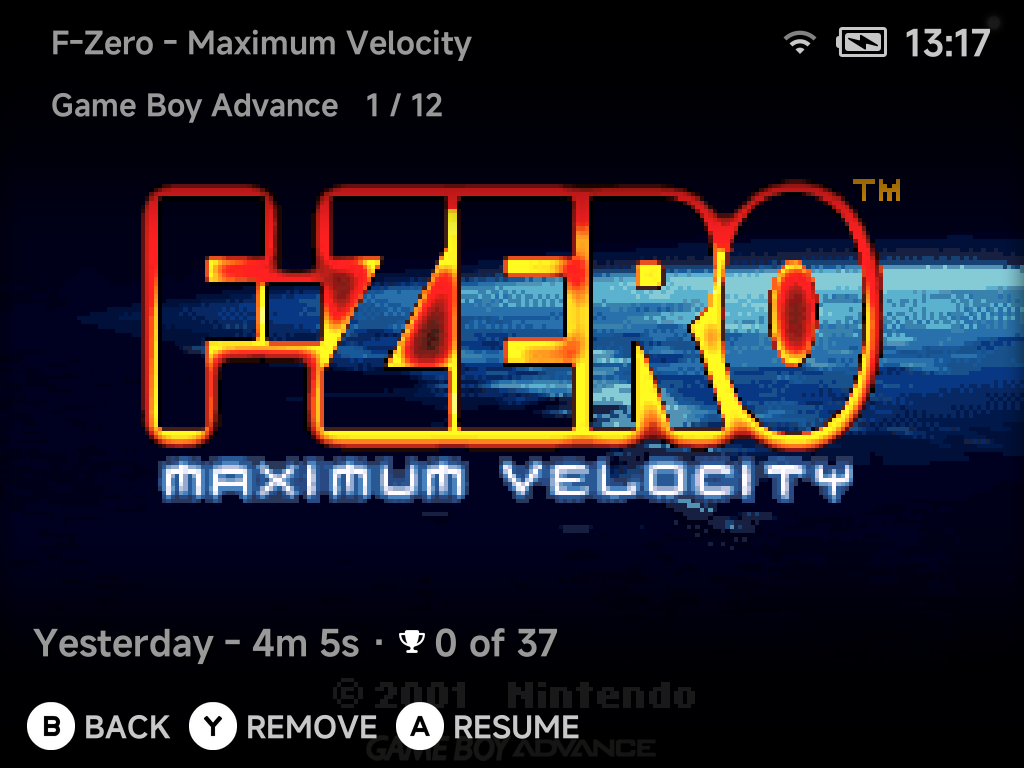
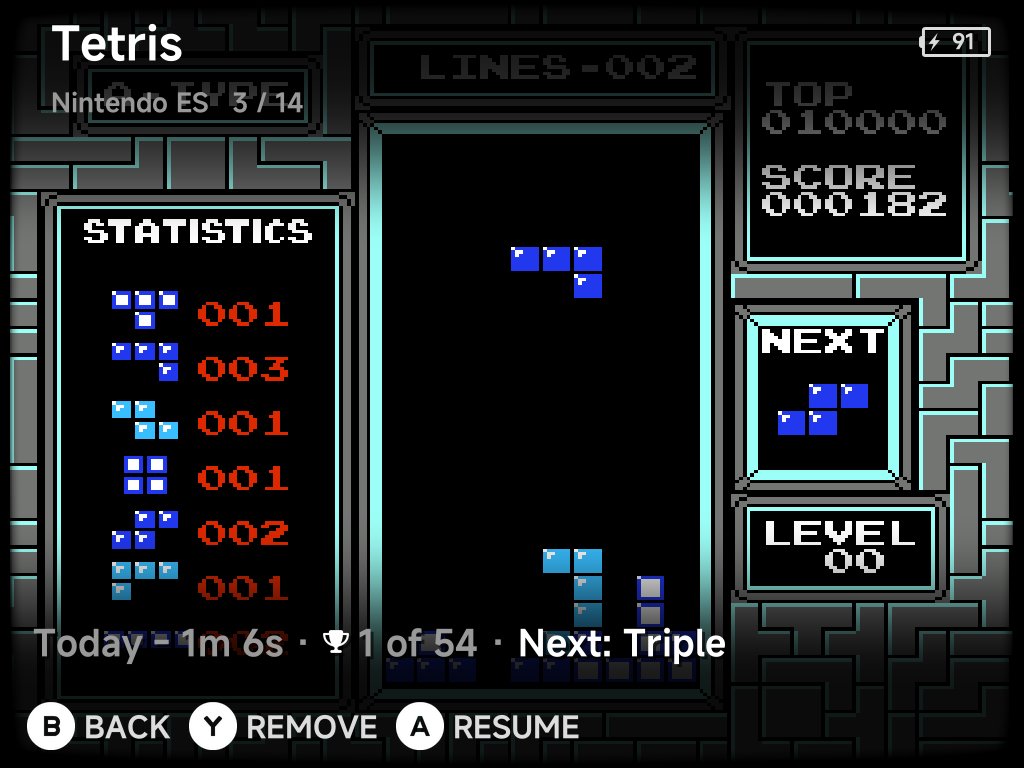
docs(handheld): Game Switcher layout option, Full screen and List with screenshots (#8)

diff --git a/docs/assets/landing/mobile/menu-demo.html b/docs/assets/landing/mobile/menu-demo.html
@@ -341,10 +341,13 @@ header.top p { margin: 0; color: var(--dim); font-size: 15px; max-width: 64ch; l
 .swtopfade { position: absolute; left: 0; right: 0; top: 0; height: 119px; pointer-events: none; }   /* subtitle bottom ≈ 55 + 64 */
 .swbotfade { position: absolute; left: 0; right: 0; bottom: var(--hb); height: 88px; pointer-events: none; }  /* info text top at 68 above the screen bottom: 24 + 64 */
 .swtop { position: absolute; left: 24px; right: 24px; top: 12px; display: grid; gap: 2px; }
-.swtop .t { font-size: 20px; line-height: 25px; white-space: nowrap; overflow: hidden; text-overflow: ellipsis; }
-.swtop .n { font-size: 13px; line-height: 16px; color: var(--dim); white-space: pre; }
+.swtop .t { font-size: 22px; line-height: 28px; white-space: nowrap; overflow: hidden; text-overflow: ellipsis; }
+.swtop .n { font-size: 11px; line-height: 14px; color: var(--dim); white-space: pre; }
 .swinfo { position: absolute; left: 24px; right: 24px; bottom: calc(var(--hb) + 6px); }
-.swinfo .il { font-size: 14px; line-height: 18px; }
+.swinfo .il { font-size: 14px; line-height: 18px; white-space: nowrap; overflow: hidden; text-overflow: ellipsis; }
+#screen.nohints .swinfo { display: none; }
+#screen.nohints .swbotfade { bottom: 44px; }   /* Button hints: Hide keeps the bar's 90% row for the info line; the fade rises from it */
+.hints.sw90 .binfo { margin-left: 0; }   /* the switcher's info line in the bar's row: left, where it sat above it */
 .portrait .swtop, .portrait .swinfo { left: 16px; right: 16px; }
 /* the Game Switcher's title keeps clear of it, as NX Redux's menu bar title (the group's ~48 dp plus 2 × PADDING 10 at 22 / 16) */
 .swtop { right: calc(24px + 48px + 27.5px); } .portrait .swtop { right: calc(16px + 48px + 27.5px); }
@@ -524,6 +527,7 @@ body { margin: 0; padding: 0 0 4px; }
           <span class="lbl">Screen</span>
           <button id="scr-main" aria-pressed="true">Main menu</button>
           <button id="scr-games" aria-pressed="false">Game list (Mega Drive)</button>
+          <button id="scr-sw" aria-pressed="false">Game Switcher</button>
         </div>
         <div class="switch" role="group" aria-label="Orientation">
           <span class="lbl">Orientation</span>
@@ -539,7 +543,7 @@ body { margin: 0; padding: 0 0 4px; }
       </div>
       <div class="opt-panel" data-p="layouts">
         <div class="layouts" id="layouts" role="group" aria-label="Layouts"></div>
-        <span class="hd">Home: List puts Continue, the pinned games and the pinned tools in one list; Grid is the dashboard (Continue beside the tools, pinned games in rows); Carousel opens on Continue with the pinned games after it and the tools in a dock below</span>
+        <span class="hd">Home: List puts Continue, the pinned games and the pinned tools in one list; Grid is the dashboard (Continue beside the tools, pinned games in rows); Carousel opens on Continue with the pinned games after it and the tools in a dock below. Game Switcher (SELECT): Full screen shows one resume frame at a time; List shows Recent as a list over the selected game's resume frame</span>
       </div>
       <div class="opt-panel" data-p="home">
         <div class="switch" role="group" aria-label="Home state">
@@ -744,9 +748,8 @@ const scaleK = () => fit.clientWidth / DIM[S.orient].w;
 
 /* ---------- the info line (ui/GameInfo.kt): "Today - 1m 31s · [trophy] 0 of 35 · Next: …" ---------- */
 const dur = h => { const s = Math.round(+h * 3600), H = Math.floor(s / 3600), M = Math.floor(s % 3600 / 60); return H ? `${H}h ${M}m` : `${M}m ${s % 60}s`; };
-/* Style > Extra info: Hide drops these segments on Home and in game lists (every info line and caption row built from them);
-   the Game Switcher keeps them */
-const infoOn = () => S.switcher || (S.info !== false && !(S.inConsole && sty() === "list" && S.hints !== false));   /* a game list on List shows them only with Button hints: Hide (its band line sits on the bar) */
+/* Style > Extra info: Hide drops these segments on Home, in game lists and in the Game Switcher (every info line and caption row built from them) */
+const infoOn = () => S.info !== false && !(S.switcher ? S.swLay === "list" && S.hints !== false : S.inConsole && sty() === "list" && S.hints !== false);   /* 2026-10-12: the Game Switcher follows Extra info too; its List as a game list's List */   /* a game list on List shows them only with Button hints: Hide (its band line sits on the bar) */
 const timeSeg = it => !infoOn() ? "" : [it.last, it.h ? dur(it.h) : ""].filter(Boolean).join(" - ");   /* ASCII hyphen inside the time segment */
 const achSeg = it => !infoOn() ? "" : it.ra ? `<i class="rai"></i>${it.ra[0]} of ${it.ra[1]}` : "";
 const nextSeg = it => !infoOn() ? "" : it.ra && it.ra[2] ? `<span class="next">Next: ${it.ra[2]}</span>` : "";
@@ -1146,8 +1149,11 @@ function press(k, repeat = false) {
   S.settleTo = null;
   if (k === "SELECT" && !S.inConsole) { S.tabFocus = false; S.switcher = !S.switcher; if (S.switcher) S.sw = 0; build(); return update(); }
   if (S.switcher) {
-    if (k === "left" && S.sw > 0) S.sw--;
-    if (k === "right" && S.sw < recent().length - 1) S.sw++;
+    const n = recent().length, list = S.swLay === "list";
+    if (list && n && k === "up") S.sw = (S.sw + n - 1) % n;
+    if (list && n && k === "down") S.sw = (S.sw + 1) % n;
+    if (!list && k === "left" && S.sw > 0) S.sw--;
+    if (!list && k === "right" && S.sw < n - 1) S.sw++;
     if (k === "B" || k === "A") { S.switcher = false; build(); }
     return update();
   }
@@ -1167,22 +1173,50 @@ function placeTabPill() {
   S.tp = { x, w };
 }
 /* ---------- the Game Switcher: recently played, one resume frame at a time ---------- */
+/* Layouts > Game Switcher (2026-10-12): Full screen (one resume frame at a time, LEFT/RIGHT) or List (the game-list List
+   style: Recent as rows, the selected game's resume frame behind them faded in from the right, UP/DOWN); kept in localStorage */
+S.swLay = (() => { try { return localStorage.getItem("nx-swlayout") === "list" ? "list" : "full"; } catch (e) { return "full"; } })();
 function buildSwitcher() {
   S.row = null;
   if (!recent().length) { screen.innerHTML = `<div class="hempty">Nothing played yet</div><div class="hints sw90" id="hints">${hint("nav_button_b", "Back")}</div>`; return; }
+  if (S.swLay === "list") return buildSwitcherList();
   screen.innerHTML = `<div class="sw" id="sw"></div>
     <div class="swtopfade" style="background:${eased("180deg", .9, 3.5)}"></div><div class="swbotfade" style="background:${eased("0deg", .9, 2)}"></div>
     <div class="swtop"><div class="t" id="swt"></div><div class="n" id="swn"></div></div>
     <div class="swinfo" id="swinfo"></div>
-    <div class="hints sw90" id="hints">${hint("nav_button_y", "Remove") + hint("nav_button_b", "Back") + hint("nav_button_a", "Resume")}</div>`;
+    <div class="hints sw90 scrim" id="hints">${hint("nav_button_y", "Remove") + hint("nav_button_b", "Back") + hint("nav_button_a", "Resume")}<span class="binfo" id="swbinfo"></span></div>`;
 }
 function updateSwitcher() {
   if (!recent().length) { syncScreen(); syncStyle(); return; }
+  if (S.swLay === "list") return updateSwitcherList();
   const it = RECENT[S.sw];
   document.getElementById("sw").style.backgroundImage = `url(${GART[it.g + "-shot"]})`;   /* stand-in for the game's resume frame */
   document.getElementById("swt").textContent = it.n;
   document.getElementById("swn").textContent = `${it.sys}   ${S.sw + 1} / ${RECENT.length}`;
   document.getElementById("swinfo").innerHTML = `<div class="il">${infoLine(it)}</div>`;
+  document.getElementById("swbinfo").innerHTML = infoLine(it);
+  syncScreen(); syncStyle();
+}
+/* List: a game list's List titled Recent, one row per game; as there, the band holds the arrows and the info line shows only
+   with Button hints: Hide (in the bar's row) and Extra info on; the list wraps UP/DOWN like a game list */
+function buildSwitcherList() {
+  screen.innerHTML = `<img class="gbg" id="gbg" alt=""><canvas class="gfade" id="gfade"></canvas>
+    <div class="tabfade" style="background:${TAB_FADE}"></div>
+    <div class="head"><span class="ttl">Recent</span></div>
+    <div class="lview games"><div class="plist" id="plist">${RECENT.map((r, i) =>
+      `<div class="prow" data-i="${i}"><span>${r.n}</span></div>`).join("")}</div></div>
+    <div class="band${infoOn() ? "" : " plain"}"><span class="arrows" id="arrows"></span><span class="btext" id="btext"></span></div>
+    <span class="uparrow" id="uparrow" hidden></span>
+    <div class="hints scrim" id="hints"></div>`;
+  drawFade(document.getElementById("gfade"));
+  screen.querySelectorAll(".prow").forEach(el => el.onclick = () => { const i = +el.dataset.i; if (S.sw === i) press("A"); else { S.sw = i; update(); } });
+}
+function updateSwitcherList() {
+  const it = RECENT[S.sw];
+  scrollList(S.sw, RECENT.length);
+  document.getElementById("btext").innerHTML = infoLine(it);
+  listBg(it);
+  document.getElementById("hints").innerHTML = hint("nav_button_y", "Remove") + hint("nav_button_b", "Back") + hint("nav_button_a", "Resume") + `<span class="binfo">${infoLine(it)}</span>`;
   syncScreen(); syncStyle();
 }
 
@@ -1195,12 +1229,15 @@ document.addEventListener("keydown", ev => {
 });
 document.querySelectorAll(".pad button").forEach(b => b.onclick = () => press(b.dataset.k));
 const syncScreen = () => {
-  document.getElementById("scr-main").setAttribute("aria-pressed", !S.inConsole);
-  document.getElementById("scr-games").setAttribute("aria-pressed", S.inConsole && !S.sub);
+  document.getElementById("scr-main").setAttribute("aria-pressed", !S.inConsole && !S.switcher);
+  document.getElementById("scr-games").setAttribute("aria-pressed", S.inConsole && !S.sub && !S.switcher);
+  document.getElementById("scr-sw").setAttribute("aria-pressed", S.switcher);
 };
 const setScreen = games => { S.switcher = false; S.tabFocus = false; S.inConsole = games; S.sub = null; if (games) { S.cat = CATS.findIndex(c => c.items === CONSOLES); S.sel[S.cat] = 0; } build(); update(); };
 document.getElementById("scr-main").onclick = () => setScreen(false);
 document.getElementById("scr-games").onclick = () => setScreen(true);
+const openSwitcher = () => { S.tabFocus = false; S.inConsole = false; S.sub = null; S.switcher = true; S.sw = 0; build(); update(); };
+document.getElementById("scr-sw").onclick = openSwitcher;
 
 
 /* ---------- List style: the same categories, each listed as pills instead of tiles ---------- */
@@ -1234,29 +1271,39 @@ function buildList() {
   screen.querySelectorAll(".tab").forEach(el => el.onclick = () => { S.cat = +el.dataset.c; build(); update(); });
 }
 function updateList() {
-  const idx = selKey(), list = items(), it = list[idx], rows = screen.querySelectorAll(".prow");
-  rows.forEach((r, j) => r.classList.toggle("focus", j === idx));
+  const idx = selKey(), list = items(), it = list[idx];
   screen.querySelectorAll(".tab").forEach(t => t.classList.toggle("on", +t.dataset.c === S.cat));
+  scrollList(idx, list.length);
+  document.getElementById("btext").innerHTML = bandText(it);
+  const lbg = document.getElementById("lbg");
+  if (lbg) { lbg.hidden = !it.logo || !S.padArt; if (it.logo) lbg.style.setProperty("--m", `url(${it.m})`); }
+  const lpad = document.getElementById("lpad");
+  if (lpad) { const on = !!it.pad && S.padArt; lpad.hidden = !on; lbg.classList.toggle("withpad", on); if (on) { lpad.style.setProperty("--pad", `url(${it.pad})`); lpad.style.setProperty("--padk", it.padk); } }   /* only consoles carry a logo behind the list */
+  listBg(it);
+  document.getElementById("hints").innerHTML = hintsFor(it) + `<span class="binfo">${bandText(it)}</span>`;
+}
+/* the List rows: focus row idx of n, scrolled so it sits mid-view, with the band's arrows (shared with the List Game Switcher) */
+function scrollList(idx, n) {
+  const rows = screen.querySelectorAll(".prow");
+  rows.forEach((r, j) => r.classList.toggle("focus", j === idx));
   const view = screen.querySelector(".lview"), rowH = rows[0].offsetHeight + 4, fits = Math.max(1, Math.floor((view.clientHeight + 4) / rowH));
-  const first = Math.max(0, Math.min(idx - Math.floor(fits / 2), list.length - fits));
-  const plist = document.getElementById("plist"), shown = Math.min(fits, list.length - first);
+  const first = Math.max(0, Math.min(idx - Math.floor(fits / 2), n - fits));
+  const plist = document.getElementById("plist"), shown = Math.min(fits, n - first);
   plist.style.transform = `translateY(${-first * rowH}px)`;
   /* only whole rows show: no part row peeks into the gap above the arrows */
   plist.style.clipPath = `inset(${first * rowH}px -40px ${Math.max(0, plist.offsetHeight - (first + shown) * rowH + 4)}px -40px)`;
   /* the band: packed arrows (only those that apply) at the list inset, then the one-line info, right-aligned */
   const upTop = first > 0 && !S.title, up = document.getElementById("uparrow");
-  document.getElementById("arrows").innerHTML = (first > 0 && !upTop ? ARROW_UP : "") + (first + fits < list.length ? ARROW_DOWN : "");
+  document.getElementById("arrows").innerHTML = (first > 0 && !upTop ? ARROW_UP : "") + (first + fits < n ? ARROW_DOWN : "");
   up.hidden = !upTop; up.innerHTML = upTop ? ARROW_UP : "";
   if (upTop) {   /* mirror the band's arrow line: its centre's gap under the last row, above the first */
     const band = screen.querySelector(".band"), rowTop = j => view.offsetTop + plist.offsetTop + rows[j].offsetTop - first * rowH;
     const below = band.offsetTop + band.offsetHeight / 2 - (rowTop(first + shown - 1) + rows[0].offsetHeight);
     up.style.top = `${rowTop(first) - below - 5}px`;
   }
-  document.getElementById("btext").innerHTML = bandText(it);
-  const lbg = document.getElementById("lbg");
-  if (lbg) { lbg.hidden = !it.logo || !S.padArt; if (it.logo) lbg.style.setProperty("--m", `url(${it.m})`); }
-  const lpad = document.getElementById("lpad");
-  if (lpad) { const on = !!it.pad && S.padArt; lpad.hidden = !on; lbg.classList.toggle("withpad", on); if (on) { lpad.style.setProperty("--pad", `url(${it.pad})`); lpad.style.setProperty("--padk", it.padk); } }   /* only consoles carry a logo behind the list */
+}
+/* the selected game's screenshot (in the Game Switcher its resume frame) behind the List, faded in from the right */
+function listBg(it) {
   const gbg = document.getElementById("gbg");
   if (gbg) {
     gbg.onload = () => {   /* NxScreenBackground: full height, right-aligned; portrait pushes it right 20% if it covers the width, else 7%; landscape keeps it flush so the wide screen shows it whole */
@@ -1267,7 +1314,6 @@ function updateList() {
     gbg.hidden = !src;   /* no screenshot: the list sits on black */
     if (src) gbg.src = src; else gbg.removeAttribute("src");
   }
-  document.getElementById("hints").innerHTML = hintsFor(it) + `<span class="binfo">${bandText(it)}</span>`;
 }
 function pressList(k) {
   /* main menu: LEFT/RIGHT switch tabs like L1/R1 (a list has no sideways move); game lists stop at the ends */
@@ -1327,6 +1373,7 @@ const syncStyle = () => {
   document.querySelectorAll("#layouts .osw[data-k]").forEach(g => g.hidden = !hasOri(g.dataset.k));   /* only under Carousel (main menu) or Carousel / Backdrop (game lists) */
   document.querySelectorAll("#layouts button[data-valign]").forEach(b => b.setAttribute("aria-pressed", S.vAlign === b.dataset.valign));
   document.querySelectorAll("#layouts .vasw").forEach(g => g.hidden = !(hasOri("games") && S.ori.games === "v"));   /* only game lists on Carousel / Backdrop + Vertical; the value is kept while hidden */
+  document.querySelectorAll("#layouts button[data-swl]").forEach(b => b.setAttribute("aria-pressed", S.swLay === b.dataset.swl));
 };
 /* the Layouts block: List / Grid / Carousel per main-menu tab, plus Backdrop for game lists; then, while the row is on
    Carousel (or Backdrop), its orientation Horizontal / Vertical. Both kept in localStorage like the accent */
@@ -1345,6 +1392,14 @@ document.getElementById("layouts").insertAdjacentHTML("beforeend", LAYOUTS.map((
     else if (k === "home") { if (v === "list" || v === "grid" || v === "car") S.lay.home = v; }   /* Home: List, Grid (the dashboard) or Carousel */
     else if (ok.includes(v)) S.lay[k] = k !== "games" && v === "bd" ? "car" : v; });
   if (saved && Object.values(saved).includes("vert")) try { localStorage.setItem("nx-layouts", JSON.stringify(S.lay)); localStorage.setItem("nx-orient", JSON.stringify(S.ori)); } catch (e) {} }
+/* the Game Switcher's own row, last: Full screen (default) or List; picking one opens the switcher */
+document.getElementById("layouts").insertAdjacentHTML("beforeend", `<div class="switch" role="group" aria-label="Game Switcher layout"><span class="lbl">Game Switcher</span>${[["full", "Full screen"], ["list", "List"]]
+  .map(([v, t]) => `<button data-swl="${v}" aria-pressed="false">${t}</button>`).join("")}</div>`);
+document.querySelectorAll("#layouts button[data-swl]").forEach(b => b.onclick = () => {
+  S.swLay = b.dataset.swl;
+  try { localStorage.setItem("nx-swlayout", S.swLay); } catch (e) {}
+  openSwitcher();
+});
 document.getElementById("style-opts").insertAdjacentHTML("beforeend", `<div class="switch" role="group" aria-label="Controller art"><span class="lbl">Controller</span>${[["on", "Show"], ["off", "Hide"]]
   .map(([v, t]) => `<button data-padart="${v}" aria-pressed="false">${t}</button>`).join("")}</div>`);
 const syncPadArt = () => document.querySelectorAll("#style-opts button[data-padart]").forEach(b => b.setAttribute("aria-pressed", (b.dataset.padart === "on") === S.padArt));

diff --git a/docs/handheld/guide/game-switcher.md b/docs/handheld/guide/game-switcher.md
@@ -1,11 +1,16 @@
 # Game Switcher
 
-Tap `SELECT` anywhere in the menus to open the Game Switcher — a full-screen
-carousel of your recent games that resumes any of them instantly.
+Tap `SELECT` anywhere in the menus to open the Game Switcher — your recent
+games, ready to resume any of them instantly. It has two layouts, picked in
+[**Settings → Layouts → Game Switcher layout**](../settings/layouts.md#game-switcher-layout):
+`Full screen` (the default) and `List`.
 
-![Game Switcher](../../assets/screenshots/game-switcher.png)
+## Full screen
 
-The top shows the game's name, its system and its place in the list
+![Game Switcher, Full screen](../../assets/screenshots/game-switcher.png)
+
+One game at a time, its resume frame filling the screen. The top shows the
+game's name and, under it, its system and its place in the list
 ("Game Boy Advance 1 / 12"). The line at the bottom shows when you last played
 it, your total play time and your achievement progress. With nothing played
 yet, the switcher says **Nothing played yet**.
@@ -16,6 +21,33 @@ yet, the switcher says **Nothing played yet**.
 | `A` **Resume** | Continue exactly where you left off |
 | `Y` **Remove** | Take the game out of the switcher |
 | `B` **Back** | Return to the menu |
+
+## List
+
+![Game Switcher, List](../../assets/screenshots/game-switcher-list.png)
+
+Your recent games as a list titled **Recent**, drawn like a game list in the
+List style: the selected game's resume frame sits behind the rows, faded in
+from the right. Two games with the same name from different systems show the
+system's tag after the name, dimmed ("Tetris (GB)").
+
+| Button | What it does |
+| --- | --- |
+| `Up` / `Down` | Move through games |
+| `A` **Resume** | Continue exactly where you left off |
+| `Y` **Remove** | Take the game out of the switcher |
+| `B` **Back** | Return to the menu |
+
+## Play time and achievements
+
+Both layouts follow [**Extra info**](../settings/layouts.md#extra-info) and
+[**Button hints**](../settings/layouts.md#button-hints) in
+**Settings → Layouts**:
+
+- Extra info hidden: no play time or achievement line.
+- Button hints hidden: the hint bar's row stays, without hints, and the play
+  time and achievement line moves into it. In the List layout the line shows
+  only then, as in a List game list.
 
 ## Always resumable
 

diff --git a/docs/handheld/settings/layouts.md b/docs/handheld/settings/layouts.md
@@ -128,6 +128,16 @@ box art and Wheel come from
 
 ![Game list in Backdrop style with 2D box art](../../assets/screenshots/game-list-backdrop-2d.png)
 
+## Game Switcher layout
+
+How the [Game Switcher](../guide/game-switcher.md) draws:
+
+- `Full screen` (default): one game at a time, its resume frame filling the
+  screen, `Left` / `Right` to flip through them.
+- `List`: your recent games as a list titled **Recent**, drawn like a game
+  list in the List style, with the selected game's resume frame behind the
+  rows. `Up` / `Down` to move.
+
 ## Extra info
 
 ![Layouts settings, the Extra info, page title, button hint, default view and Game Switcher rows](../../assets/screenshots/set-layouts-2.png)
@@ -138,8 +148,8 @@ box art and Wheel come from
 - the play time, last played, achievement progress and next achievement
   under a game's name, on Home and in every game list layout.
 
-Names always show. The [Game Switcher](../guide/game-switcher.md) keeps its
-own details either way.
+Names always show. The [Game Switcher](../guide/game-switcher.md) follows this
+too.
 
 ## Page title
 
@@ -153,9 +163,9 @@ up arrow moves to the top of the list. Carousels run up into the freed row.
 volume and brightness changes included. Hidden:
 
 - the rows keep their place, so nothing jumps;
-- a game list in the List style shows the selected game's play time,
-  achievements and next achievement in the bar's row instead (unless
-  [Extra info](#extra-info) is hidden);
+- a game list in the List style, and the Game Switcher, show the selected
+  game's play time, achievements and next achievement in the bar's row instead
+  (unless [Extra info](#extra-info) is hidden);
 - carousels run down into the freed row.
 
 ## Default view
